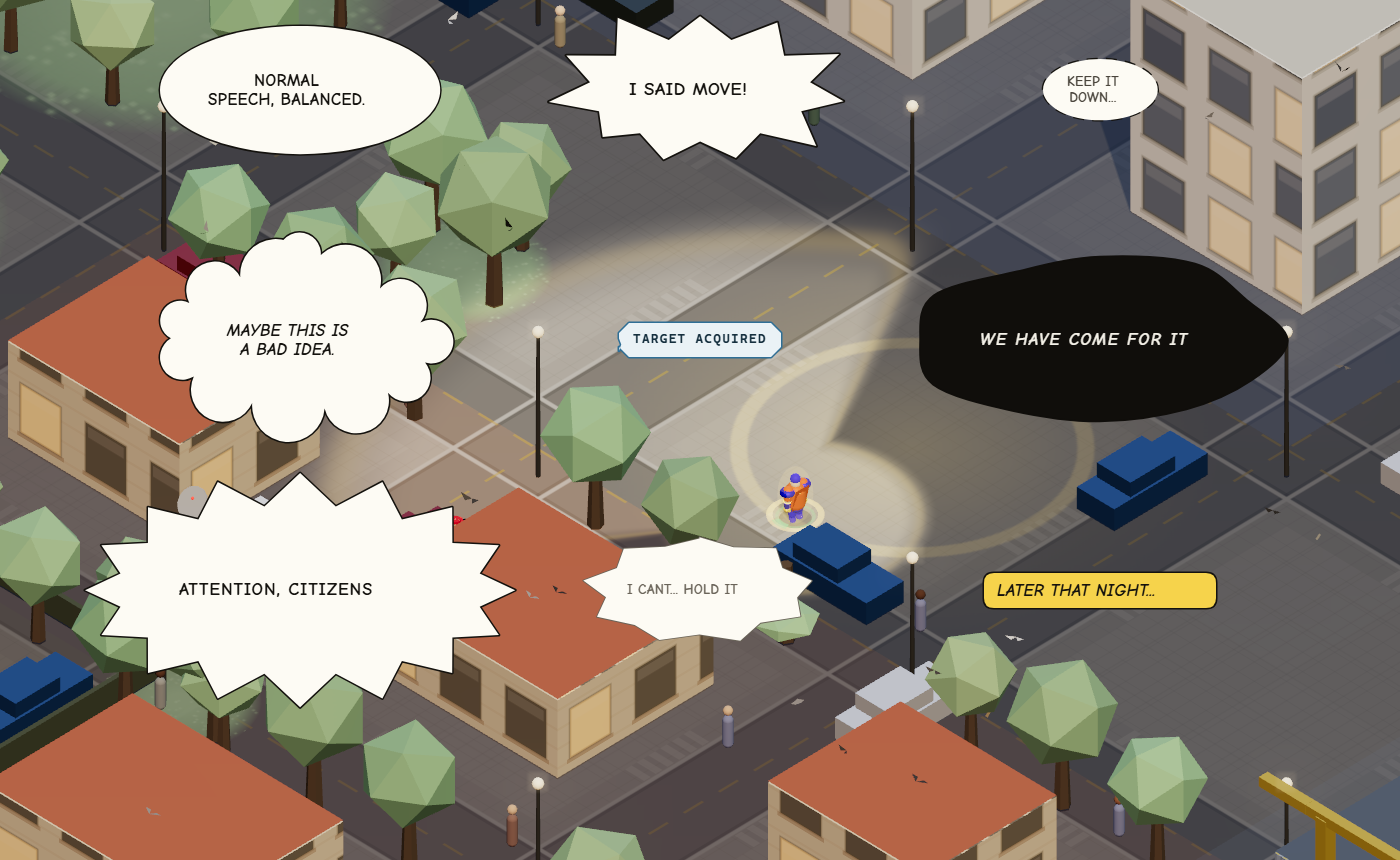
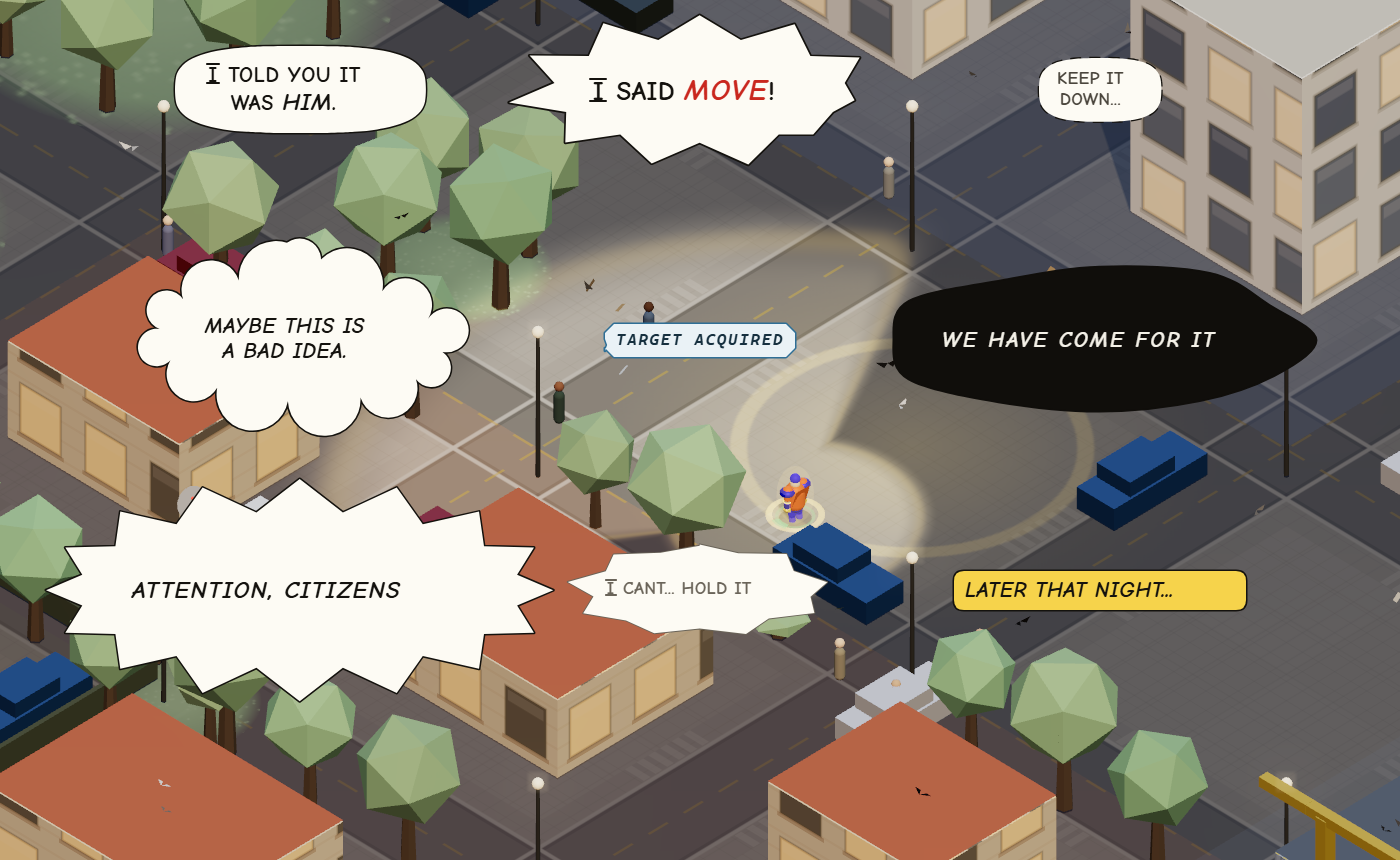
lettering, not typesetting: superellipse balloons and the real conventions
"There is too much white space around the text... learn more, obsess over comic
book text — some things are in bold, sometimes not."

THE WHITE SPACE WAS MY MATHS. To circumscribe a w-by-h box a true ellipse needs
semi-axes w/root-2 — 41% inflation — and every unit of that surplus arrives as
empty corner. A SUPERELLIPSE hugs a rectangle far more closely: inflation is
2^(1/n), so n=3 needs 26% against the ellipse's 41%. It is also the shape real
balloons ARE, because a letterer draws a rounded box rather than a true oval.

The second source was my own pancake fix: forcing a balloon rounder grows the
SHORT axis, and all of that is dead space above and below the words. Relaxed from
2.15 to 2.8, and the per-shape padding came down with it.

THEN THE CONVENTIONS, which are not the conventions of typesetting. From
Blambot's "Comic Book Grammar & Tradition" and the lettering guides:

- EMPHASIS IS BOLD ITALIC, not bold. A letterer leans the stressed word as well
  as thickening it, and that is precisely why comic emphasis reads as a voice
  being raised rather than as a heading. Mine was plain bold, which is a
  typesetting habit.
- IT IS SURGICAL. "Bold every other word looks panicked; bold one word every
  couple of panels lands the emphasis." So emphasis stays explicit and there is
  no auto-bolding anywhere.
- THE CROSSBAR I. The letter I is drawn with serifs top and bottom ONLY for the
  personal pronoun, never inside a word. It is the most recognisable rule in the
[…]

diff --git a/src/engine/balloon.js b/src/engine/balloon.js
@@ -28,6 +28,40 @@
 const TAU = Math.PI * 2;
 const R2 = Math.SQRT2;
 
+// ⚠ A TRUE ELLIPSE WASTES ENORMOUS SPACE, which is why the first balloons read as mostly empty.
+// To circumscribe a w×h box an ellipse needs semi-axes w/√2 — 41% inflation — and that surplus all
+// arrives as white space in the corners, above and below the words. A SUPERELLIPSE
+// (|x/a|^n + |y/b|^n = 1) with a squarer exponent hugs a rectangle far more closely: the inflation
+// is 2^(1/n), so n=3 needs only 26% against the ellipse's 41%. It also happens to be the shape real
+// balloons ARE — a letterer draws a rounded box, not a true oval.
+const SUPER_N = 3;
+const SUPER_K = Math.pow(2, 1 / SUPER_N);        // 1.26
+
+// sample a superellipse and emit it as a closed cubic spline — smooth at any size, no arc maths
+function superPath(cx, cy, a, b, n = SUPER_N, steps = 44) {
+  const pts = [];
+  for (let i = 0; i < steps; i++) {
+    const t = (i / steps) * TAU;
+    const ct = Math.cos(t), st = Math.sin(t);
+    pts.push([cx + Math.sign(ct) * Math.pow(Math.abs(ct), 2 / n) * a,
+              cy + Math.sign(st) * Math.pow(Math.abs(st), 2 / n) * b]);
+  }
+  return splinePath(pts);
+}
+
+// closed Catmull-Rom through the points, emitted as cubics
+function splinePath(pts) {
+  const n = pts.length;
+  let d = `M${pts[0][0].toFixed(1)},${pts[0][1].toFixed(1)}`;
+  for (let i = 0; i < n; i++) {
+    const p0 = pts[(i - 1 + n) % n], p1 = pts[i], p2 = pts[(i + 1) % n], p3 = pts[(i + 2) % n];
+    const c1 = [p1[0] + (p2[0] - p0[0]) / 6, p1[1] + (p2[1] - p0[1]) / 6];
+    const c2 = [p2[0] - (p3[0] - p1[0]) / 6, p2[1] - (p3[1] - p1[1]) / 6];
+    d += `C${c1[0].toFixed(1)},${c1[1].toFixed(1)} ${c2[0].toFixed(1)},${c2[1].toFixed(1)} ${p2[0].toFixed(1)},${p2[1].toFixed(1)}`;
+  }
+  return d + 'Z';
+}
+
 // A cubic-Bézier ellipse. k is the classic circle-to-Bézier constant.
 const K = 0.5522847498;
 function ellipsePath(cx, cy, rx, ry) {
@@ -47,7 +81,10 @@ function rng(seed) { let a = seed >>> 0 || 1; return () => (a = (a * 1664525 + 1
 // lettering keeps balloons near 2:1, and every decoration in this file (spikes, scallops, bumps,
 // wobble) is unreadable stretched along a pancake. Growing the SHORT axis is the only correction
 // that cannot push text outside the shape.
-const MAX_ASPECT = 2.15;
+// ⚠ RELAXED from 2.15. Forcing a balloon rounder grows the SHORT axis, and every unit of that is
+// pure white space above and below the words — the correction that fixed pancakes was also the
+// biggest single source of empty balloon. 2.8 keeps decorations legible without padding the box.
+const MAX_ASPECT = 2.8;
 function round(rx, ry) {
   if (rx > ry * MAX_ASPECT) ry = rx / MAX_ASPECT;
   else if (ry > rx * MAX_ASPECT) rx = ry / MAX_ASPECT;
@@ -60,9 +97,9 @@ function round(rx, ry) {
 export const SHAPES = {
   // TALK — the classic oval. 41% inflation, from the circumscribed-ellipse identity.
   talk(tw, th) {
-    let [rx, ry] = round(Math.max(26, (tw / R2) + 12), Math.max(18, (th / R2) + 10));
+    let [rx, ry] = round(Math.max(24, (tw / 2) * SUPER_K + 9), Math.max(17, (th / 2) * SUPER_K + 8));
     const w = rx * 2, h = ry * 2;
-    return { path: ellipsePath(rx, ry, rx - 2, ry - 2), w, h };
+    return { path: superPath(rx, ry, rx - 2, ry - 2), w, h };
   },
 
   // WHISPER — the same oval; the DASHED outline is what says it, not the shape.
@@ -72,7 +109,7 @@ export const SHAPES = {
   // top of the ellipse margin, and the shape ends up considerably bigger than a talk balloon.
   // That is correct: a shout takes up more room on the page.
   yell(tw, th, seed = 7) {
-    let [inx, iny] = round((tw / R2) + 10, (th / R2) + 8);   // inner radius must contain the text
+    let [inx, iny] = round((tw / 2) * SUPER_K + 8, (th / 2) * SUPER_K + 7);   // must contain the text
     const spike = Math.max(13, Math.min(26, (inx + iny) * 0.17));
     const rx = inx + spike, ry = iny + spike;
     const w = rx * 2, h = ry * 2, cx = rx, cy = ry;
@@ -95,7 +132,7 @@ export const SHAPES = {
 
   // THINK — a cloud: a core ellipse the text clears, ringed by bumps that bulge outward.
   think(tw, th, seed = 11) {
-    let [rx, ry] = round((tw / R2) + 8, (th / R2) + 6);
+    let [rx, ry] = round((tw / 2) * SUPER_K + 5, (th / 2) * SUPER_K + 4);
     const bump = Math.max(11, Math.min(20, (rx + ry) * 0.13));
     const w = (rx + bump) * 2, h = (ry + bump) * 2, cx = w / 2, cy = h / 2;
     const n = Math.max(8, Math.min(13, Math.round((rx + ry) * 0.07)));
@@ -115,7 +152,7 @@ export const SHAPES = {
   // ROBOT — no curves at all. A machine speaks in a box with its corners cut off, and the notched
   // step down one side reads as a signal rather than a voice.
   robot(tw, th) {
-    const px = 16, py = 11, c = 12;
+    const px = 13, py = 9, c = 11;
     const w = tw + px * 2, h = th + py * 2;
     const s = Math.min(9, h * 0.16);
     return { path:
@@ -127,7 +164,7 @@ export const SHAPES = {
   // ALIEN — an organic wobble. Not a burst (that is anger) and not a cloud (that is thought):
   // a smooth outline that is subtly WRONG, which is the only way a shape says "not from here".
   alien(tw, th, seed = 23) {
-    let [rx, ry] = round((tw / R2) + 13, (th / R2) + 11);
+    let [rx, ry] = round((tw / 2) * SUPER_K + 11, (th / 2) * SUPER_K + 10);
     const w = rx * 2, h = ry * 2, cx = rx, cy = ry;
     const n = 12, r = rng(seed);
     const pts = [];
@@ -151,7 +188,7 @@ export const SHAPES = {
   // ANNOUNCE — the many-pointed star. A burst is one person shouting; an announcement is a PA, a
   // broadcast, a god. More points, shallower, and regular rather than jagged.
   announce(tw, th) {
-    let [inx, iny] = round((tw / R2) + 12, (th / R2) + 10);
+    let [inx, iny] = round((tw / 2) * SUPER_K + 10, (th / 2) * SUPER_K + 9);
     const spike = Math.max(16, Math.min(34, (inx + iny) * 0.22));
     const rx = inx + spike, ry = iny + spike;
     const w = rx * 2, h = ry * 2, cx = rx, cy = ry;
@@ -168,7 +205,7 @@ export const SHAPES = {
 
   // WEAK — fading, hurt, barely audible. A soft scalloped wobble, drawn thin.
   weak(tw, th, seed = 5) {
-    let [rx, ry] = round((tw / R2) + 11, (th / R2) + 10);
+    let [rx, ry] = round((tw / 2) * SUPER_K + 9, (th / 2) * SUPER_K + 8);
     const w = rx * 2, h = ry * 2, cx = rx, cy = ry;
     const n = 18, r = rng(seed);
     let d = '';
@@ -185,7 +222,7 @@ export const SHAPES = {
 
   // NARRATION — a plain rounded box. Not a voice: the story talking.
   narrate(tw, th) {
-    const px = 15, py = 10, c = 10;
+    const px = 13, py = 9, c = 10;
     const w = tw + px * 2, h = th + py * 2;
     return { path:
       `M${c + 2},2 H${w - c - 2} Q${w - 2},2 ${w - 2},${c + 2} V${h - c - 2} Q${w - 2},${h - 2} ${w - c - 2},${h - 2} ` +

diff --git a/src/styles/comic.css b/src/styles/comic.css
@@ -54,10 +54,16 @@
   fill: var(--cm-paper); stroke: var(--cm-ink); stroke-width: var(--cm-line);
   stroke-linejoin: round; paint-order: stroke fill;
 }
+/* ⚠ LETTERING IS SIZED FOR THE SCREEN, NOT THE PAGE. 17px is a print measure; on a monitor at
+ * playing distance, over a moving isometric city, it reads as fine print. And a fixed pixel size is
+ * wrong twice over — it is small on a 1440p panel and enormous on a phone. These scale with the
+ * VIEWPORT HEIGHT and clamp at both ends, so the balloon is the same size relative to the fight on
+ * every display. Because the shape is generated FROM the measured text, every balloon grows to
+ * match with nothing else to change — which is the payoff of building it that way round. */
 .cmb .cmtext {
   position: absolute;
   font-family: 'ComicLetter', 'Comic Sans MS', cursive; font-weight: 700;
-  font-size: 17px; line-height: 1.14; letter-spacing: .015em;
+  font-size: clamp(19px, 2.6vh, 34px); line-height: 1.14; letter-spacing: .015em;
   text-transform: uppercase; text-align: center; color: var(--cm-ink);
   white-space: pre; pointer-events: none;
 }
@@ -65,19 +71,36 @@
 .cmb.out { animation: cmOut .16s ease-in forwards; }
 @keyframes cmOut { to { transform: scale(.92); opacity: 0 } }
 
-/* a word the letterer would have bolded — comics emphasise INSIDE the balloon, always */
-.cmb b { font-size: 1.13em; letter-spacing: .03em; }
-.cmb .shoutword { color: var(--cm-red); font-size: 1.18em; }
+/* ⚠ EMPHASIS IS BOLD *ITALIC*. Plain bold is a typesetting habit; a letterer leans the stressed
+ * word as well as thickening it, which is what makes comic emphasis read as a raised voice rather
+ * than a heading. (Blambot, "Comic Book Grammar & Tradition".) */
+.cmb b { font-style: italic; font-size: 1.1em; letter-spacing: .03em; }
+.cmb .shoutword { color: var(--cm-red); font-style: italic; font-size: 1.16em; }
+
+/* THE CROSSBAR I — serifs top and bottom, for the personal pronoun only, never inside a word.
+ * The single most recognisable rule in the craft. Our font has one I glyph, so the bars are drawn
+ * and sized off the current font, which keeps them correct at every clamp step. */
+.cmb .crossI { position: relative; padding: 0 .1em; }
+.cmb .crossI::before, .cmb .crossI::after {
+  content: ''; position: absolute; left: -.02em; right: -.02em; height: .085em;
+  background: currentColor; border-radius: .04em;
+}
+.cmb .crossI::before { top: .06em; }
+.cmb .crossI::after  { bottom: .18em; }
+
+/* ⚠ ELECTRONIC SPEECH IS ITALICISED inside the balloon — the convention for a voice arriving
+ * through a device rather than through the air. */
+.cmb.t-robot .cmtext, .cmb.t-announce .cmtext { font-style: italic; }
 
 /* --- YELL. The burst is in the PATH; all that changes here is the weight of the voice. */
-.cmb.t-yell .cmtext { font-size: 19px; }
+.cmb.t-yell .cmtext { font-size: clamp(22px, 3.1vh, 40px); }
 .cmb.t-yell .cmbody, .cmb.t-yell .cmtail { stroke-width: 3.4px; }
 
 /* --- WHISPER. A dashed outline is the century-old convention and still reads instantly. */
 /* ⚠ the dash has to be COARSE. At 7/5 on a 3px stroke it read as a solid line at gameplay size. */
 .cmb.t-whisper .cmbody { stroke-dasharray: 11 8; stroke-width: 2.6px; }
 .cmb.t-whisper .cmtail { stroke-dasharray: 11 8; stroke-width: 2.6px; }
-.cmb.t-whisper .cmtext { font-size: 14px; color: #4a453c; }
+.cmb.t-whisper .cmtext { font-size: clamp(16px, 2.1vh, 27px); color: #4a453c; }
 
 /* --- THINK. The cloud and its trailing circles are both path work. */
 .cmb.t-think .cmtext { font-style: italic; }
@@ -86,7 +109,7 @@
 .cmb.t-robot .cmbody, .cmb.t-robot .cmtail { fill: #eaf2f6; stroke: var(--cm-blue); }
 .cmb.t-robot .cmtext {
   font-family: var(--f-mono, 'Cascadia Code', ui-monospace, monospace);
-  font-size: 13px; letter-spacing: .1em; color: #16303f;
+  font-size: clamp(14px, 1.9vh, 24px); letter-spacing: .1em; color: #16303f;
 }
 
 /* --- ALIEN. Sickly green, and the letters lean where they should not. */
@@ -94,11 +117,11 @@
 .cmb.t-alien .cmtext { color: #2c3d1a; font-style: italic; letter-spacing: .09em; }
 
 /* --- ANNOUNCE. A PA, a broadcast, a god — the many-pointed star from the reference sheet. */
-.cmb.t-announce .cmtext { font-size: 18px; letter-spacing: .05em; }
+.cmb.t-announce .cmtext { font-size: clamp(21px, 2.9vh, 38px); letter-spacing: .05em; }
 
 /* --- WEAK / FADING. Thin line, grey ink, small letters: a voice running out. */
 .cmb.t-weak .cmbody, .cmb.t-weak .cmtail { stroke-width: 1.8px; stroke: #6a6459; }
-.cmb.t-weak .cmtext { font-size: 14px; color: #6a6459; }
+.cmb.t-weak .cmtext { font-size: clamp(16px, 2.1vh, 27px); color: #6a6459; }
 
 /* --- NARRATION. The story talking, not a person. No tail is drawn for it. */
 .cmb.t-narrate .cmbody { fill: var(--cm-yellow); }
@@ -114,7 +137,7 @@
 .cmcap {
   position: absolute;
   font-family: 'ComicLetter', 'Comic Sans MS', cursive; font-weight: 700; font-style: italic;
-  font-size: 21px; line-height: 1.06; letter-spacing: .012em; text-transform: uppercase;
+  font-size: clamp(20px, 2.7vh, 35px); line-height: 1.06; letter-spacing: .012em; text-transform: uppercase;
   color: var(--cm-ink); background: var(--cm-yellow);
   border: var(--cm-line) solid var(--cm-ink);
   box-shadow: 5px 5px 0 0 var(--cm-ink);
@@ -147,7 +170,7 @@
 .cmcap.red   { background: var(--cm-red); color: #fff; }
 .cmcap.red .drop { color: var(--cm-yellow); }
 .cmcap.paper { background: var(--cm-paper); }
-.cmcap.big   { font-size: 30px; padding: 10px 20px 11px; }
+.cmcap.big   { font-size: clamp(27px, 3.7vh, 48px); padding: 10px 20px 11px; }
 .cmcap.tr    { transform: rotate(1.4deg); }
 @keyframes cmSlamR { from { transform: rotate(1.4deg) scale(1.22) translateY(-10px); opacity: 0 }
                      to   { transform: rotate(1.4deg) scale(1) translateY(0); opacity: 1 } }
@@ -186,6 +209,9 @@
 }
 
 /* phones: everything one step down, and balloons must never own the whole screen */
-body.phone .cmb   { font-size: 14px; max-width: 190px; padding: 6px 10px 7px; }
+/* ⚠ a phone is held at arm's length, not across a room — the vh clamp would make these enormous */
+body.phone .cmb .cmtext          { font-size: 15px !important; }
+body.phone .cmb.t-yell .cmtext   { font-size: 17px !important; }
+body.phone .cmb.t-robot .cmtext  { font-size: 12px !important; }
 body.phone .cmcap { font-size: 16px; padding: 5px 11px 6px; box-shadow: 4px 4px 0 0 var(--cm-ink); }
 body.phone .cmsfx { font-size: 36px; -webkit-text-stroke: 3px var(--cm-ink); }

diff --git a/src/engine/comic.js b/src/engine/comic.js
@@ -54,12 +54,32 @@ export function balance(text, maxChars = 26) {
   return (best || [words.join(' ')]).join('\n');
 }
 
-// `*word*` is the letterer's bold; `**word**` is the one they'd also colour.
+// ---------------------------------------------------------------------------------------------
+// THE CONVENTIONS OF COMIC LETTERING, which are not the conventions of typesetting. Sources:
+// Blambot's "Comic Book Grammar & Tradition", and the lettering guides at comicory / comicpad.
+//
+//   · EMPHASIS IS BOLD ITALIC, not bold. Plain bold is a typesetting habit; a letterer leans the
+//     stressed word as well as thickening it, and that is why comic emphasis reads as a VOICE
+//     raising rather than a heading.
+//   · IT IS SURGICAL. "Bold every other word looks panicked; bold one word every couple of panels
+//     lands the emphasis." So `*` is deliberate and there is no auto-bolding anywhere in here.
+//   · THE CROSSBAR I. The letter I is drawn with serifs top and bottom ONLY for the personal
+//     pronoun — never inside a word. It is the single most recognisable rule in the craft and the
+//     fastest way to spot lettering done by someone who did not look it up. Our font has one glyph
+//     for I, so the bars are drawn: a span with two rules, sized off the current font.
+//   · DOUBLE DASHES replace em dashes.
+//   · ELECTRONIC SPEECH IS ITALICISED inside the balloon (handled in the CSS, per tone).
 function markup(s) {
   return String(s)
     .replace(/&/g, '&amp;').replace(/</g, '&lt;').replace(/>/g, '&gt;')
     .replace(/\*\*(.+?)\*\*/g, '<b class="shoutword">$1</b>')
-    .replace(/\*(.+?)\*/g, '<b>$1</b>');
+    .replace(/\*(.+?)\*/g, '<b>$1</b>')
+    .replace(/\u2014/g, '--')                                   // em dash -> the letterer's double dash
+    // the crossbar I: standalone pronoun only, and not inside a tag we just wrote
+    // \u26a0 EITHER CASE. Balloons are text-transformed to caps, so a script written in ordinary
+    // sentence case ("i can't hold it") still renders an uppercase pronoun \u2014 and it must get its
+    // crossbars like any other. Matching only `I` in the source silently skipped half of them.
+    .replace(/(^|[\s(\u201c"'>])[Ii](?=$|[\s.,!?;:)\u201d"'<])/g, '$1<span class="crossI">I</span>');
 }
 
 export class Comic {
